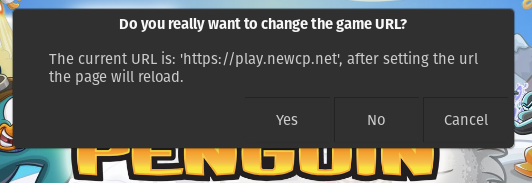
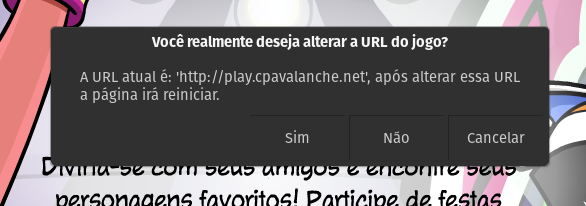
feat: update readme

diff --git a/src/menu.ts b/src/menu.ts
@@ -13,11 +13,11 @@ const createMenuTemplate = (store: Store, mainWindow: BrowserWindow): MenuItemCo
     label: 'Opções',
     submenu: [
       {
-        label: 'Limpar cache',
+        label: 'Limpar Cache',
         click: () => { clearCache(mainWindow); }
       },
       {
-        label: 'Abrir dev tools',
+        label: 'Abrir Dev Tools',
         accelerator: 'CommandOrControl+Shift+I',
         click: () => { openDevTools(mainWindow); }
       },
@@ -31,7 +31,7 @@ const createMenuTemplate = (store: Store, mainWindow: BrowserWindow): MenuItemCo
         role: 'reload',
       },
       {
-        label: 'Recarregar sem Cache',
+        label: 'Recarregar Sem Cache',
         accelerator: 'CommandOrControl+R',
         click: () => { mainWindow.webContents.reloadIgnoringCache(); }
       },

diff --git a/README.md b/README.md
@@ -1,23 +1,23 @@
-# CPClient
+# CPAvalanche Client
 
-An alternative Club Penguin Client for any Club Penguin Private Server
+O client oficial do Club Penguin Avalanche!
+## Instalação 
 
-## Installation
+Os executáveis estão disponíveis em [releases](https://github.com/Club-Penguin-Avalanche/CPA-Client/releases/latest).
 
-The installers are available from [releases](https://github.com/renanrcp/CPClient/releases).
-
-OBS: macOS installer not available for now.
+OBS: Executável para MacOS pode não funcionar no momento.
 
 ## Features
-- URL setter for change to any CPPS the user want.
-- Clear cache option
-- Reload and Reload Without Cache
-- Can set FullScreen
-- Can change the zoom with `CmdOrControl +`, `CmdOrControl -` and `CmdOrContrl + 0`
-- Can open Chromium Dev Tools
-- Optional AD Blocker for performance gameplay (comes disabled)
-- Optional Discord Rich Presence (comes disabled)
-- Optional Discord Rich Presence Location Tracking (comes disabled)
+
+- Opção de alterar o URL para qualquer CPPS à escolha do usuário.
+- Opção de limpar o cache.
+- Reload e Reload sem cache.
+- Modo tela cheia.
+- É possível alterar o Zoom com `CmdOrControl +`, `CmdOrControl -` e `CmdOrContrl + 0`.
+- DevTools.
+- ADBlocker (vem desabilitado - O CPA NÃO É MONETIZADO).
+- Discord Rich Presence (vem desabilitado).
+- Rastreamento de sala no Discord Rich Presence (vem desabilitado).
 
 #### URL Setter
 You can change the url of the CPPS and play in any other CPPS
@@ -28,29 +28,17 @@ You can change the url of the CPPS and play in any other CPPS
 <br>
 ![CPClient URL Setter input](./readme/change_url_input.png)
 
-Know CPPS available:
-- [New Club Penguin](https://newcp.net) (default)
-- [Club Penguin Brasil](https://cpbrasil.pw/)
-- [Super Club Penguin](https://supercpps.com)
-- [Aventure Pingouin](https://aventurepingouin.com)
-
 #### Ad Blocker
-You can enable/disable an Ad Blocker when you want a performatic gameplay (comes disabled by default).
-
-OBS: The CPPS devs needs money to keep the game alive, only use this when you need a performatic gameplay.
+É possível habilitar/desabilitar o Ad Blocker para obter uma jogabilidade mais fluída. 
+Esta função é irrelevante no __Club Penguin Avalanche__, pois este não possui ADs.
 
 ![CPClient AdBlocker menu](./readme/adblock_menu.png)
 <br>
-![CPClient AdBlocker confirmation](./readme/ad_block_confirmation.png)
 
-#### Discord Rich Presense (with location tracking)
-The client supports Discord RPC (comes disabled by default).
+#### Discord Rich Presense (com rastreamento de sala)
+O client possui função de Discord Rich Presence, que vem desabilitada.
 
-The client also supports share your penguin location in the Discord RPC (also comes disabled by default), you can use the Discord RPC with or without the location tracking.
-
-OBS: The location tracker MAY work in an AS3 CPPS.
-
-The location tracker also supports the CPPS localization but don't support RPC phrases localization, the supported languages are: (EN/PT).
+O client também pode rastrear a localização do usuário in-game através da Rich Presence. É possível usar a função de RPC com e sem o rastreamento.
 
 ![CPClient Discord RPC menu](./readme/discord_menu.png)
 <br>
@@ -63,4 +51,4 @@ The location tracker also supports the CPPS localization but don't support RPC p
 ![CPClient Discord RPC tracking live](./readme/discord_tracking_live.png)
 
 ### License
-This project uses the [MIT License](https://github.com/renanrcp/CPClient/blob/main/LICENSE).
+Esse projeto usa a [MIT License](https://github.com/renanrcp/CPClient/blob/main/LICENSE).
